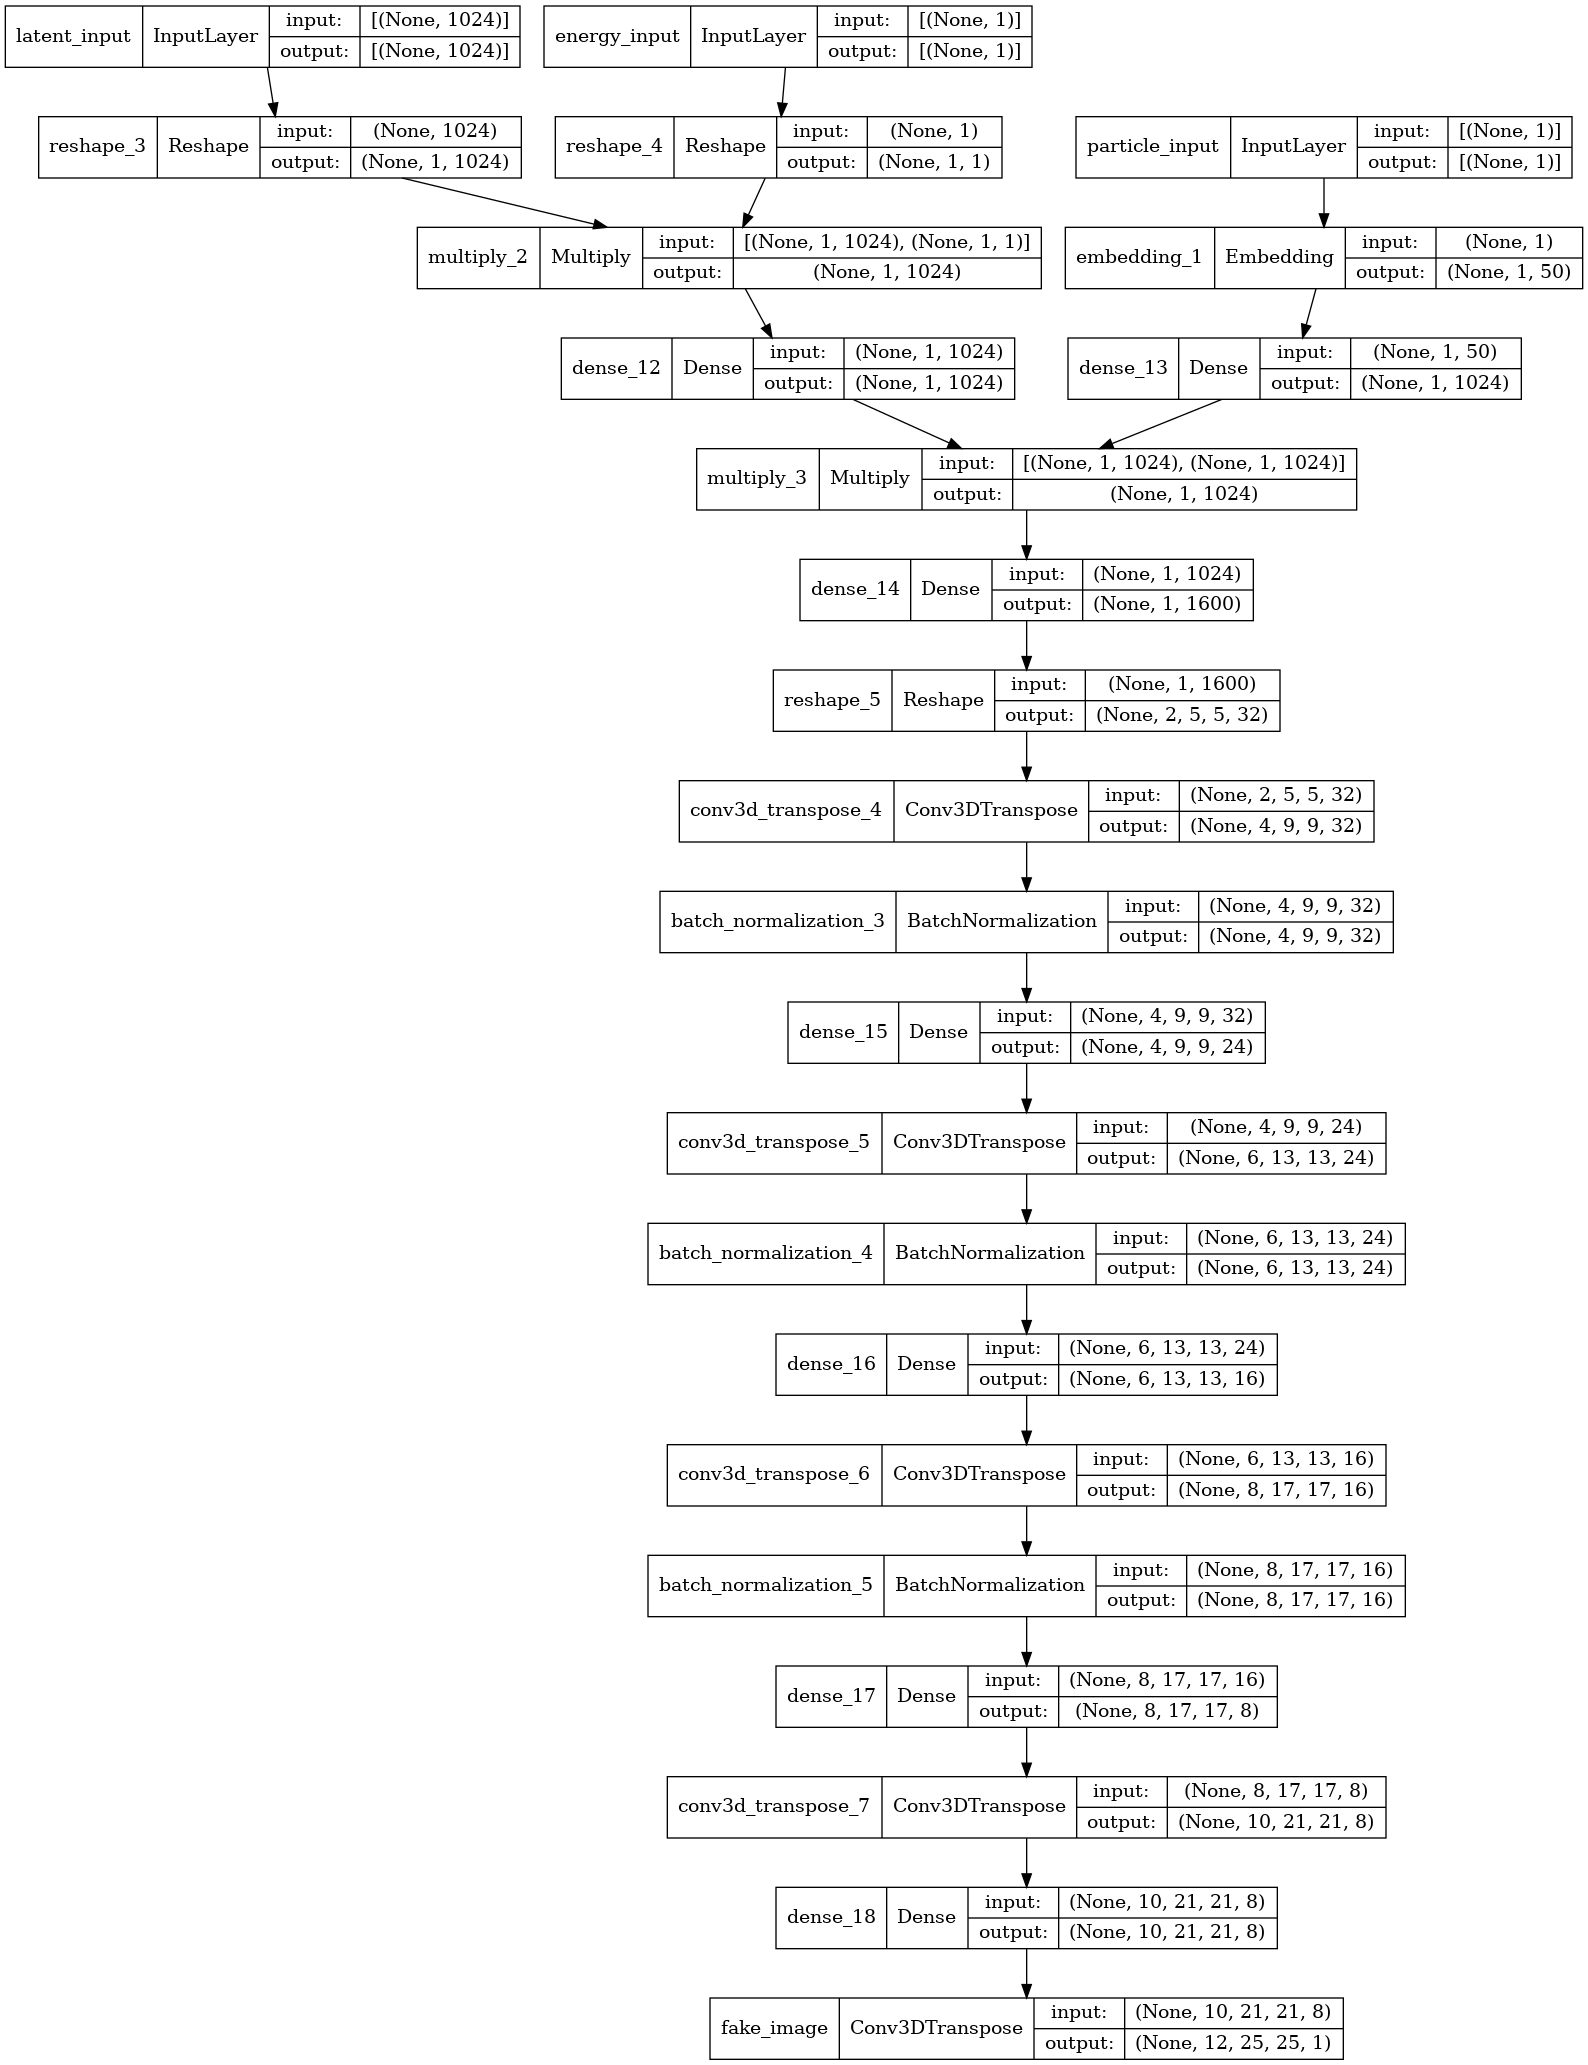
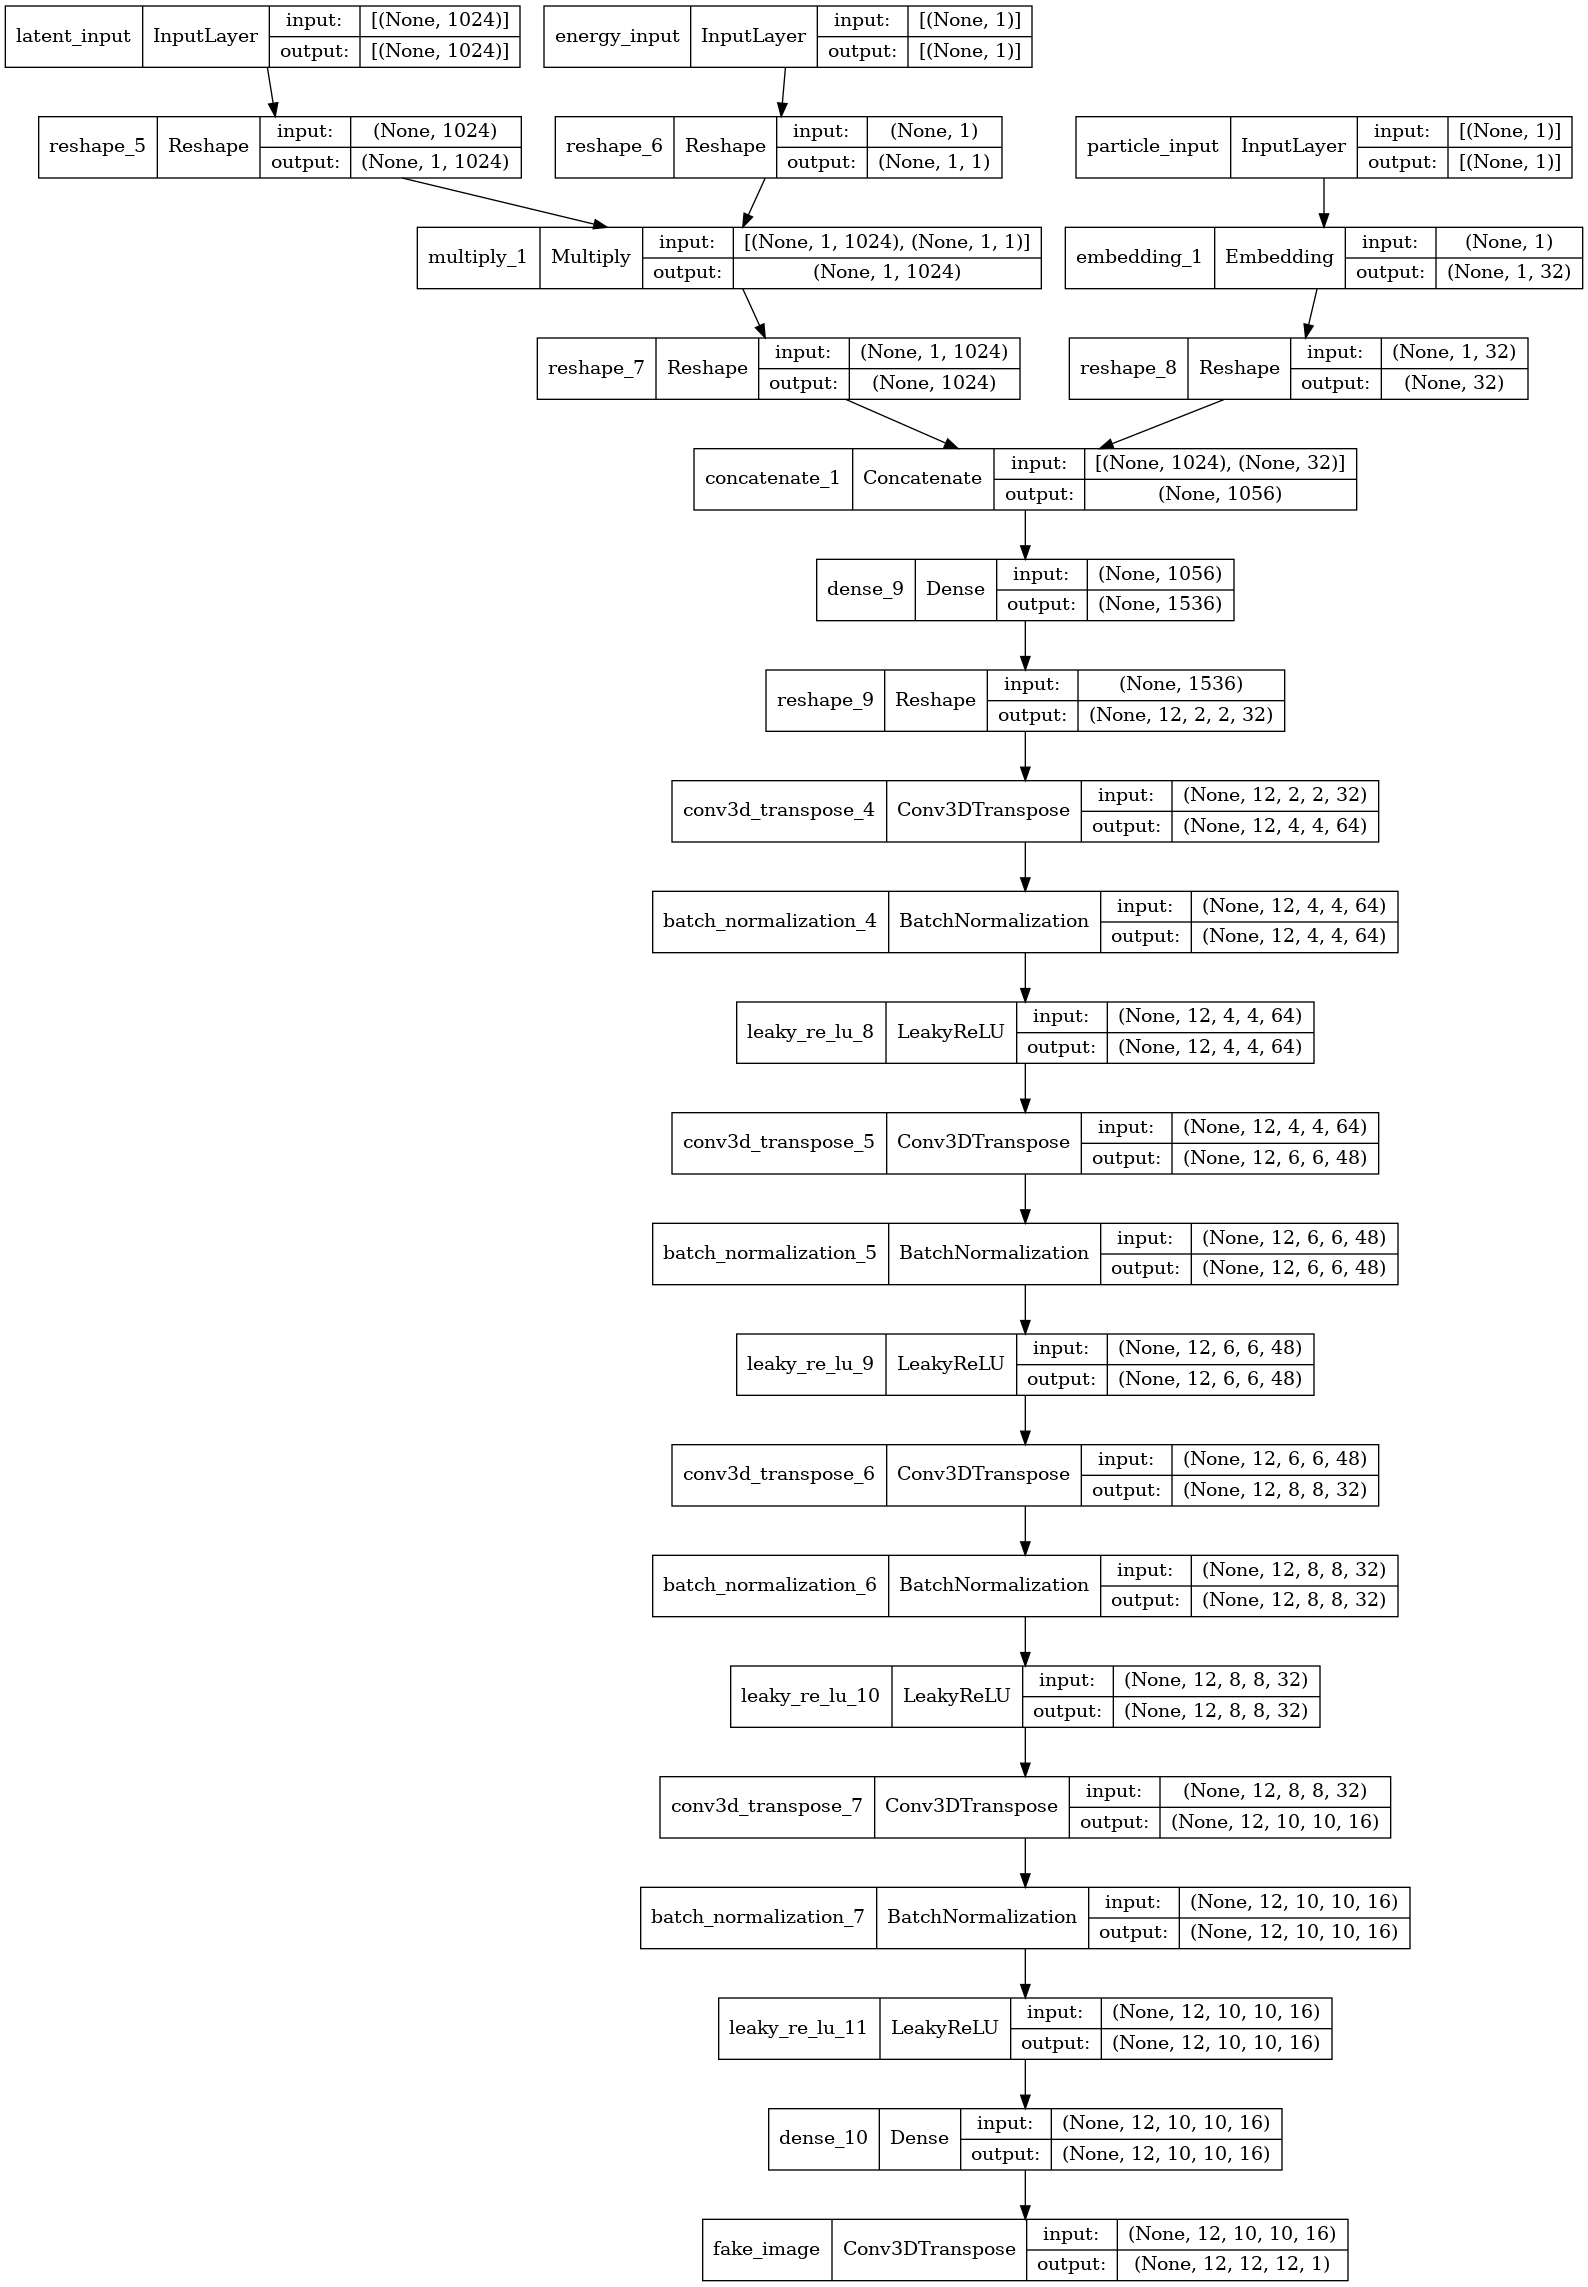
restored 12x12 in all of _C files and new topology implemented.

Changed region(s): [[0.0, 0.0, 1.0, 1.0], [0.4011, 0.5889, 0.432, 0.6199]]

diff --git a/EM_shower_simulator/make_models_C.py b/EM_shower_simulator/make_models_C.py
@@ -34,7 +34,7 @@ NOISE_DIM = 1024
 MBSTD_GROUP_SIZE = 8                                     #minibatch dimension
 ENERGY_NORM = 6.503
 ENERGY_SCALE = 1000000.
-GEOMETRY = (12, 25, 25, 1)
+GEOMETRY = (12, 12, 12, 1)
 
 # Define logger and handler
 logger = logging.getLogger("ModelsLogger")
@@ -52,12 +52,13 @@ def make_generator_model():
     layer that creates a sort of lookup-table (vector[EMBED_DIM] of floats) that
     categorizes the labels in N_CLASSES * classes.
     """
-    FILTER = 8
-    EMBED_DIM = 50
-    KERNEL = (3, 5, 5)
-    image_shape = (2, 5, 5, 4*FILTER)
+    BASE = 2
+    FILTER = 16
+    EMBED_DIM = 32
+    KERNEL = (1, 3, 3)
 
     n_nodes = 1
+    image_shape = (GEOMETRY[0], BASE, BASE, BASE*FILTER)
     for cell in image_shape:
         n_nodes = n_nodes * cell
 
@@ -66,7 +67,7 @@ def make_generator_model():
 
     # Image generator input
     in_lat = Input(shape=(NOISE_DIM,), name="latent_input")
-    li_lat = Reshape((1,NOISE_DIM))(in_lat)
+    li_lat = Reshape((1, NOISE_DIM))(in_lat)
 
     # Energy label input
     en_label = Input(shape=(1,), name="energy_input")
@@ -74,48 +75,42 @@ def make_generator_model():
 
     # Combine noise and energy
     gen = Multiply()([li_lat, li_en])
-    gen = Dense(NOISE_DIM, activation="relu", use_bias=False)(gen)
+    gen = Reshape((NOISE_DIM,))(gen)
 
     # ParticleID label input
     pid_label = Input(shape=(1,), name="particle_input")
     li_pid = Embedding(N_PID, EMBED_DIM)(pid_label)
-    li_pid = Dense(NOISE_DIM, activation="relu", use_bias=False)(li_pid)
+    li_pid = Reshape((EMBED_DIM,))(li_pid)
 
     # Combine at last particle ID
-    gen = Multiply()([gen, li_pid])
-    gen = Dense(n_nodes, activation="relu", use_bias=False)(gen)
+    gen = Concatenate()([gen, li_pid])
+    logger.info(gen.get_shape())
+    gen = Dense(n_nodes, activation="relu")(gen)
     gen = Reshape(image_shape)(gen)
 
-    gen = Conv3DTranspose(4 * FILTER, KERNEL, use_bias=False)(gen)
-    logger.info(gen.get_shape())
-    gen = BatchNormalization()(gen)
-    #gen = LeakyReLU(alpha=0.2)(gen)
-
-    gen = Dense(3 * FILTER, activation="relu", use_bias=False)(gen)
-
-    gen = Conv3DTranspose(3 * FILTER, KERNEL, use_bias=False)(gen)
+    gen = Conv3DTranspose(4*FILTER, KERNEL)(gen)
     logger.info(gen.get_shape())
     gen = BatchNormalization()(gen)
     gen = LeakyReLU(alpha=0.2)(gen)
 
-    gen = Dense(2 * FILTER, activation="relu", use_bias=False)(gen)
-
-    gen = Conv3DTranspose(2 * FILTER, KERNEL, use_bias=False)(gen)
+    gen = Conv3DTranspose(3*FILTER, KERNEL)(gen)
     logger.info(gen.get_shape())
     gen = BatchNormalization()(gen)
     gen = LeakyReLU(alpha=0.2)(gen)
 
-    gen = Dense(FILTER, activation="relu", use_bias=False)(gen)
-
-    gen = Conv3DTranspose(FILTER, KERNEL, use_bias=False)(gen)
+    gen = Conv3DTranspose(2*FILTER, KERNEL)(gen)
     logger.info(gen.get_shape())
     gen = BatchNormalization()(gen)
     gen = LeakyReLU(alpha=0.2)(gen)
 
-    gen = Dense(FILTER, activation="relu", use_bias=False)(gen)
+    gen = Conv3DTranspose(FILTER, KERNEL)(gen)
+    logger.info(gen.get_shape())
+    gen = BatchNormalization()(gen)
+    gen = LeakyReLU(alpha=0.2)(gen)
 
-    output = (Conv3DTranspose(1, KERNEL, use_bias=False, activation="tanh",
-                                                        name="fake_image")(gen))
+    gen = Dense(FILTER, activation="relu")(gen)
+
+    output = (Conv3DTranspose(1, KERNEL, activation="tanh", name="fake_image")(gen))
 
     logger.info(f"Shape of the generator output: {output.get_shape()}")
     assert output.get_shape().as_list()==[None, *GEOMETRY], error
@@ -180,8 +175,8 @@ def make_discriminator_model():
     layer that creates a sort of lookup-table (vector[EMBED_DIM] of floats) that
     categorizes the labels in N_CLASSES * classes.
     """
-    FILTER = 16
-    KERNEL = (3, 5, 5)
+    FILTER = 32
+    KERNEL = (1, 3, 3)
 
     n_nodes = 1
     for cell in GEOMETRY:
@@ -206,29 +201,32 @@ def make_discriminator_model():
     discr = LeakyReLU()(discr)
     discr = Dropout(0.2)(discr)
 
-    discr = Conv3D(3*FILTER, KERNEL, use_bias=False)(discr)
+    discr = Conv3D(4*FILTER, KERNEL, use_bias=False)(discr)
     logger.info(discr.get_shape())
     discr = LeakyReLU()(discr)
     discr = Dropout(0.2)(discr)
 
-    discr = Conv3D(3*FILTER, KERNEL, use_bias=False)(discr)
+    discr = Conv3D(2*FILTER, KERNEL, use_bias=False)(discr)
     logger.info(discr.get_shape())
     discr = LeakyReLU()(discr)
     discr = Dropout(0.2)(discr)
 
-    discr = Conv3D(3*FILTER, KERNEL, use_bias=False)(discr)
+    discr = Conv3D(1, KERNEL, use_bias=False)(discr)
     logger.info(discr.get_shape())
     discr = Flatten()(discr)
 
-    discr_conv = Dense(2*FILTER, activation="relu", use_bias=False)(discr)
-    discr_conv = Dense(FILTER, activation="relu", use_bias=False)(discr_conv)
+    discr = Dense(3*FILTER, use_bias=False)(discr)
+
+    discr_conv = Dense(2*FILTER, activation="relu")(discr)
+    discr_conv = Dense(FILTER, activation="relu")(discr_conv)
     output_conv = Dense(1, activation="sigmoid", name="decision")(discr_conv)
 
-    discr_en = Dense(2*FILTER, activation="relu", use_bias=False)(discr)
-    discr_en = Dense(FILTER, activation="relu", use_bias=False)(discr_en)
+    discr_en = Dense(2*FILTER, activation="relu")(discr)
+    discr_en = Dense(FILTER, activation="relu")(discr_en)
     output_en = Dense(1, activation="relu", name="energy_label")(discr_en)
 
-    discr_id = Dense(FILTER, activation="relu", use_bias=False)(discr)
+    discr_id = Dense(2*FILTER, activation="relu")(discr)
+    discr_id = Dense(FILTER, activation="relu")(discr_id)
     output_id = Dense(1, activation="sigmoid", name="particle_label")(discr_id)
 
     output = [output_conv, output_en, output_id]

diff --git a/EM_shower_simulator/class_GAN_C.py b/EM_shower_simulator/class_GAN_C.py
@@ -31,7 +31,7 @@ ENERGY_SCALE = 1000000.
 
 
 # Create a random seed, to be used during the evaluation of the cGAN.
-tf.random.set_seed(3)
+tf.random.set_seed(7)
 num_examples = 6
 test_noise = [tf.random.normal([num_examples, NOISE_DIM]),
               tf.random.uniform([num_examples, 1], minval= 0., maxval=N_ENER),
@@ -78,7 +78,7 @@ class ConditionalGAN(tf.keras.Model):
         self.computed_loss_tracker = Mean(name="computed_en_loss")
 
         # Scheduler attributes and optimizers
-        self.generator_optimizer = Adam(learning_rate * 6)
+        self.generator_optimizer = Adam(learning_rate * 7)
         self.discriminator_optimizer = Adam(learning_rate)
 
         # Manager to save rusults from training in form of checkpoints.
@@ -289,17 +289,17 @@ class ConditionalGAN(tf.keras.Model):
 
             fake_output = self.discriminator(generated_images, training=True)
 
-            # Label of the real computed energies
+            # Generated and computed energies
             energies = compute_energy(generated_images)
             computed_loss = mean_squared(en_labels, energies)
 
             # Compute GAN loss on decisions
             ones = tf.ones_like(real_output[0])
             zeros = tf.zeros_like(real_output[0])
-            gener_loss = cross_entropy(ones, fake_output[0])
-            real_loss = cross_entropy(ones, real_output[0])
             fake_loss = cross_entropy(zeros, fake_output[0])
+            real_loss = cross_entropy(ones, real_output[0])
             discr_loss = real_loss + fake_loss
+            gener_loss = -fake_loss
 
             # Compute auxiliary energy and particle losses
             fake_energ_loss = mean_squared(en_labels, fake_output[1])
@@ -314,7 +314,7 @@ class ConditionalGAN(tf.keras.Model):
             aux_discr_loss = (real_energ_loss * 0.05 + real_parID_loss * 0.1)
 
             # Compute total losses
-            gener_total_loss = gener_loss + aux_gener_loss + computed_loss
+            gener_total_loss = gener_loss + aux_gener_loss + computed_loss* 0.05
             discr_total_loss = discr_loss + aux_discr_loss
 
         grad_generator = gen_tape.gradient(gener_total_loss,

diff --git a/EM_shower_simulator/train_C.py b/EM_shower_simulator/train_C.py
@@ -6,27 +6,25 @@ from sys import exit
 
 import matplotlib.pyplot as plt
 
-from dataset import data_path_1, data_path_2
-
 # Logger import
-from dataset import logger as logData
+from dataset_C import logger as logData
 from make_models_C import logger as logMod
 from class_GAN_C import logger as logGAN
 
 # Train import
-from dataset import data_pull
+from dataset_C import data_pull
 from make_models_C import make_generator_model, make_discriminator_model
 from class_GAN_C import ConditionalGAN
 
 
 # Creation of the default dataset path
+data_path = os.path.join("dataset","filtered_data","data_MVA.root")
 # In the project folder
-#path = data_path
+#DPATH = data_path
 # In colab after cloning the repository
-#path = os.path.join("EM-shower-simulator-with-NN", data_path)
+#DPATH = os.path.join("EM-shower-simulator-with-NN", data_path)
 # In this folder
-path_1 = os.path.join("..", data_path_1)
-path_2 = os.path.join("..", data_path_2)
+path = os.path.join("..", data_path)
 
 verbose = True
 
@@ -43,7 +41,7 @@ logGAN.addHandler(ch)
 #-------------------------------------------------------------------------------
 
 def train_cgan(cond_gan, train_dataset):
-    history = cond_gan.train(train_dataset, epochs=300, batch=32, wake_up=15)
+    history = cond_gan.train(train_dataset, epochs=300, batch=64, wake_up=50)
     #history = cond_gan.fit(train_dataset, epochs=3, batch=2048)
 
     plt.figure("Evolution of losses per epochs")
@@ -64,7 +62,7 @@ if __name__=="__main__":
         logger.info('Logging level set on WARNING.')
 
     logger.info("Start building operations.")
-    train_dataset = data_pull(path_1, path_2)
+    train_dataset = data_pull(path)
 
     generator = make_generator_model()
 

diff --git a/EM_shower_simulator/dataset_C.py b/EM_shower_simulator/dataset_C.py
@@ -101,7 +101,7 @@ def debug_data_pull(path, num_examples=1, verbose=False):
 
     en_labels = np.array(branches["en_in"]).astype("float32") / ENERGY_SCALE
     en_labels = np.transpose(en_labels)
-    assert N_EVENT == en_labels_1.shape[0], "Dataset energy labels compromised!"
+    assert N_EVENT == en_labels.shape[0], "Dataset energy labels compromised!"
     en_labels = np.reshape(en_labels, (N_EVENT, 1))
 
     # Particle labels are -1, 0, 1 ==> 0, 1, 2 for embedding layer

diff --git a/EM_shower_simulator/debug_C.py b/EM_shower_simulator/debug_C.py
@@ -131,7 +131,7 @@ if __name__=="__main__":
     cond_gan.plot_model()
     logger.info("The cGAN model has been plotted correctly.")
 
-    debug_cgan(cond_gan)
+    #debug_cgan(cond_gan)
 
     logger.info("The work is done.")
     logger.handlers.clear()
